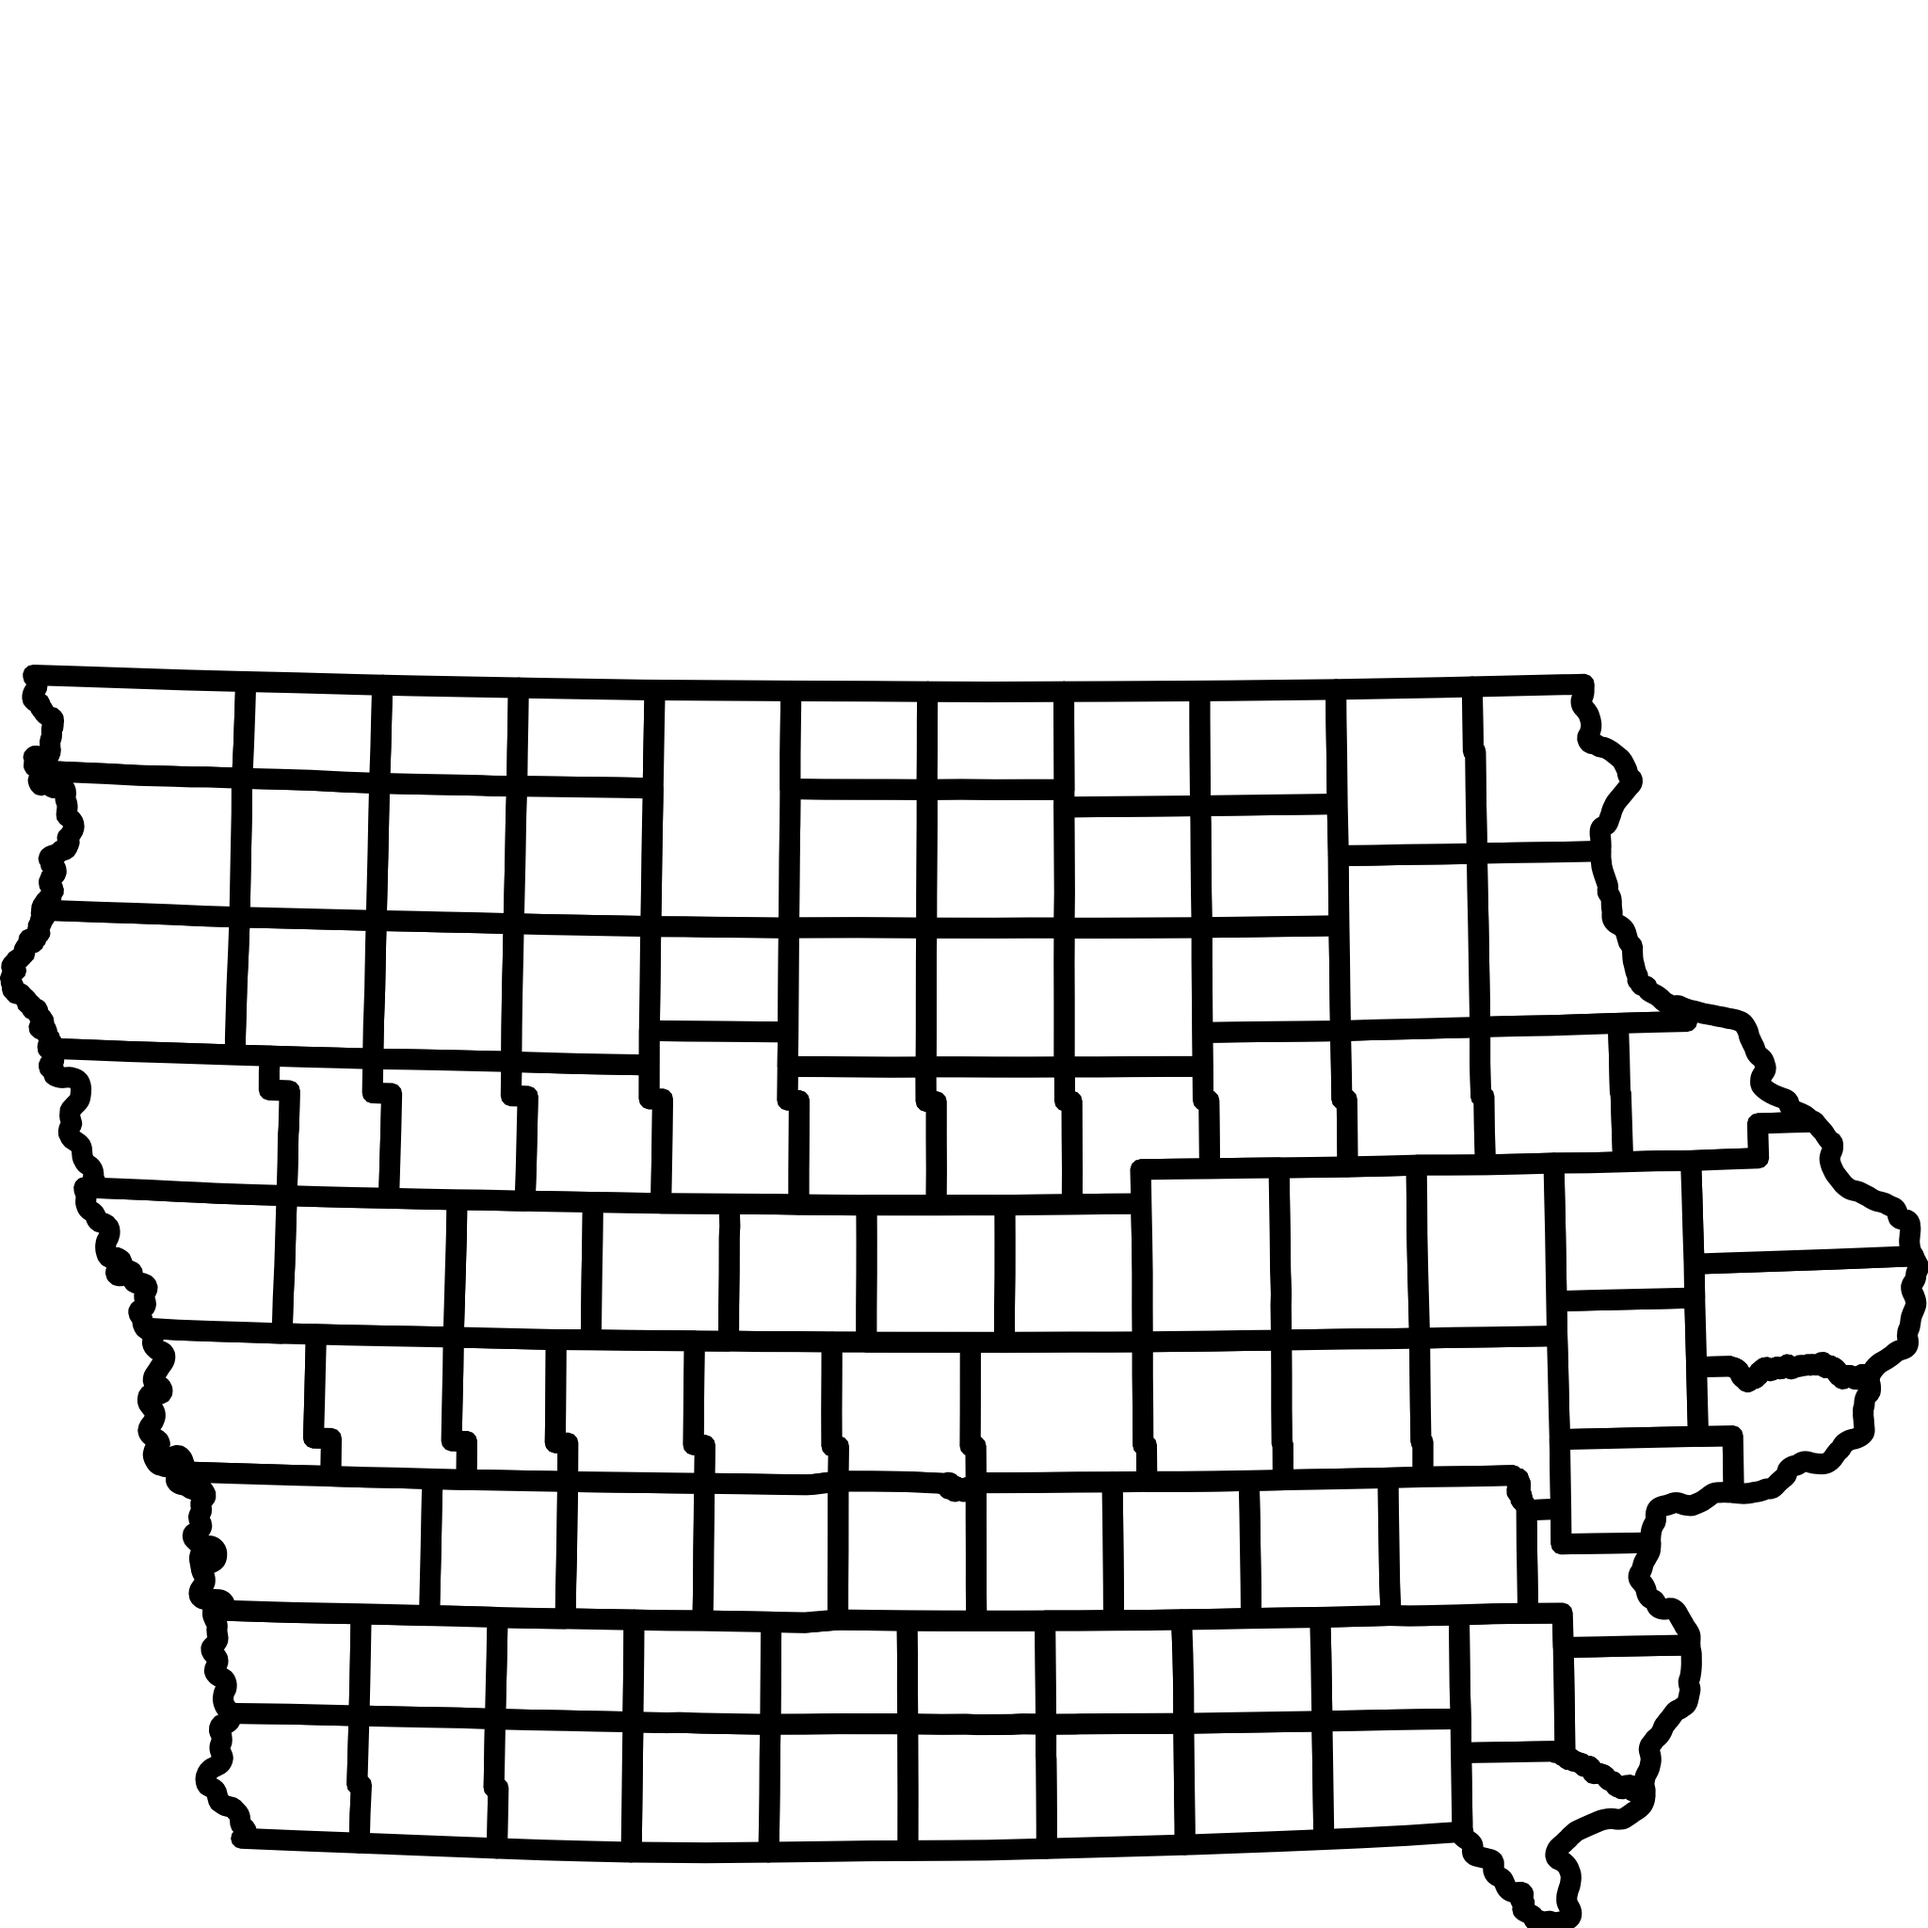
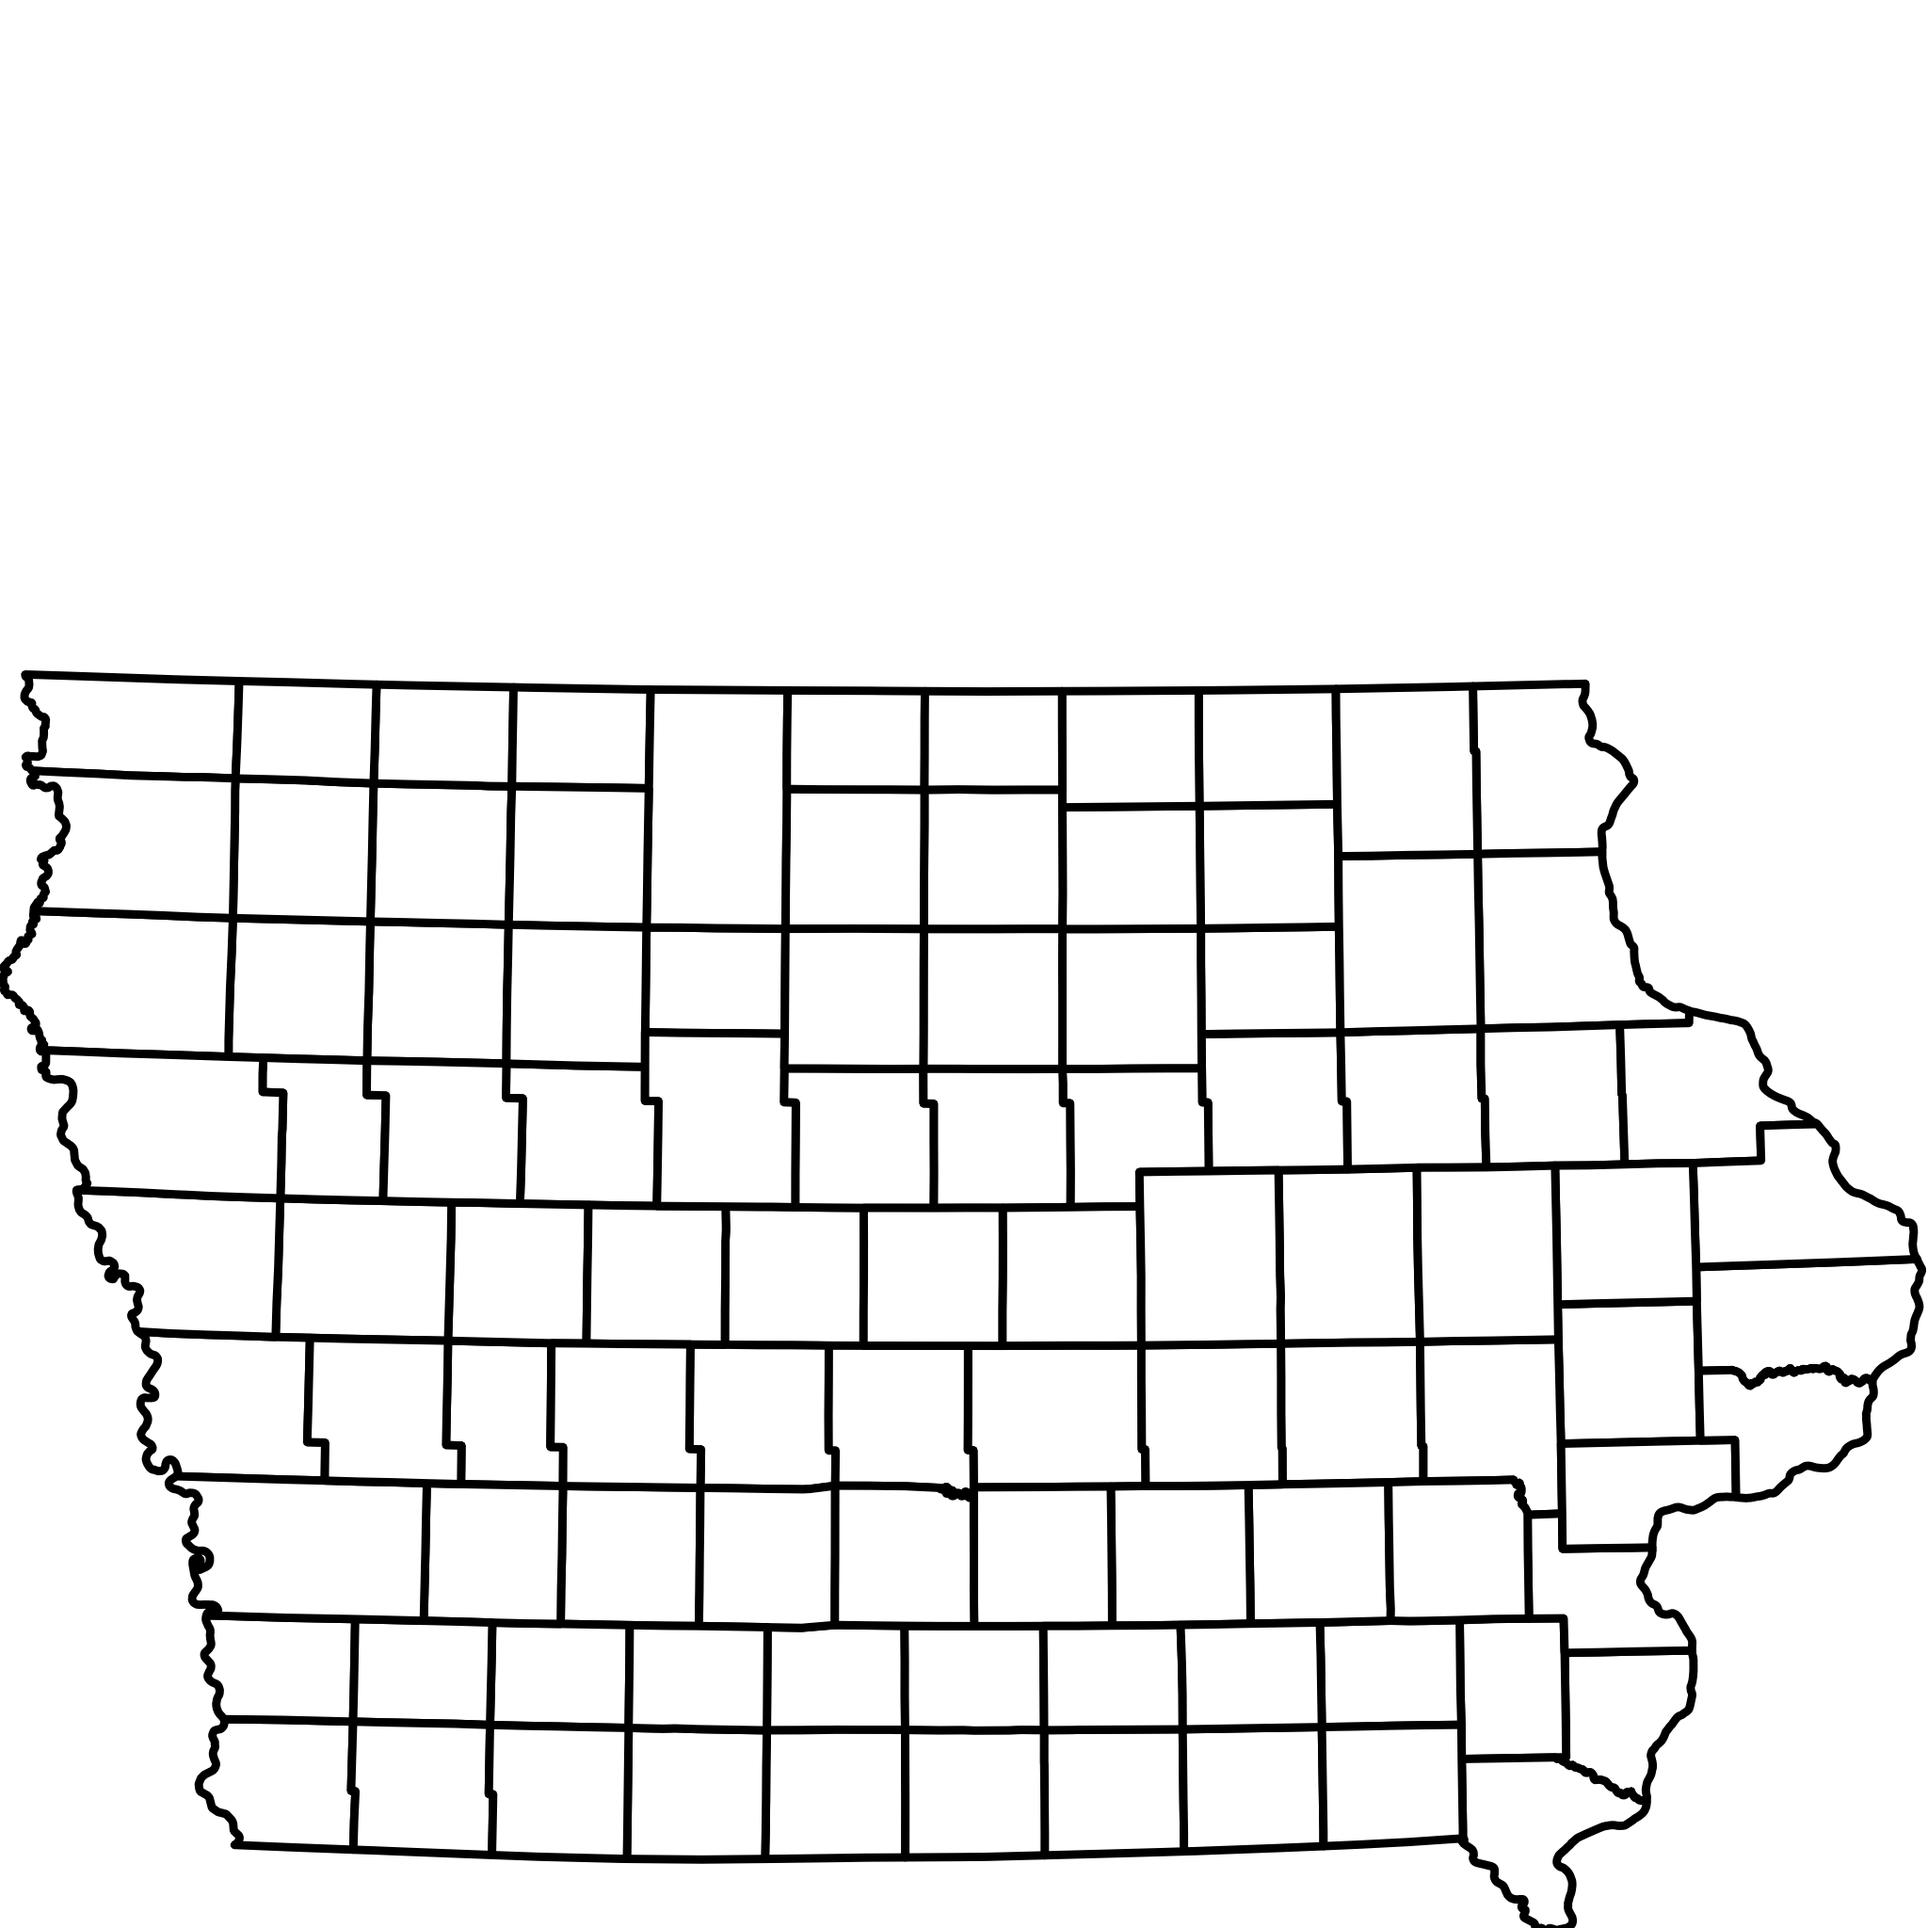
fit map texture

Changed region(s): [[0.0, 0.3438, 1.0, 1.0]]

diff --git a/apps/99counties/apps/population/main.py b/apps/99counties/apps/population/main.py
@@ -18,7 +18,7 @@ class Renderer(Widget):
     fs = StringProperty(None)
     vs = StringProperty(None)
     texture = ObjectProperty(None, allownone=True)
-    map_texture = StringProperty("map/iowa_borders.png")
+    map_texture = StringProperty("map/image_map_2.png")
     slider_val = StringProperty("1900")
 
     def __init__(self, **kwargs):
